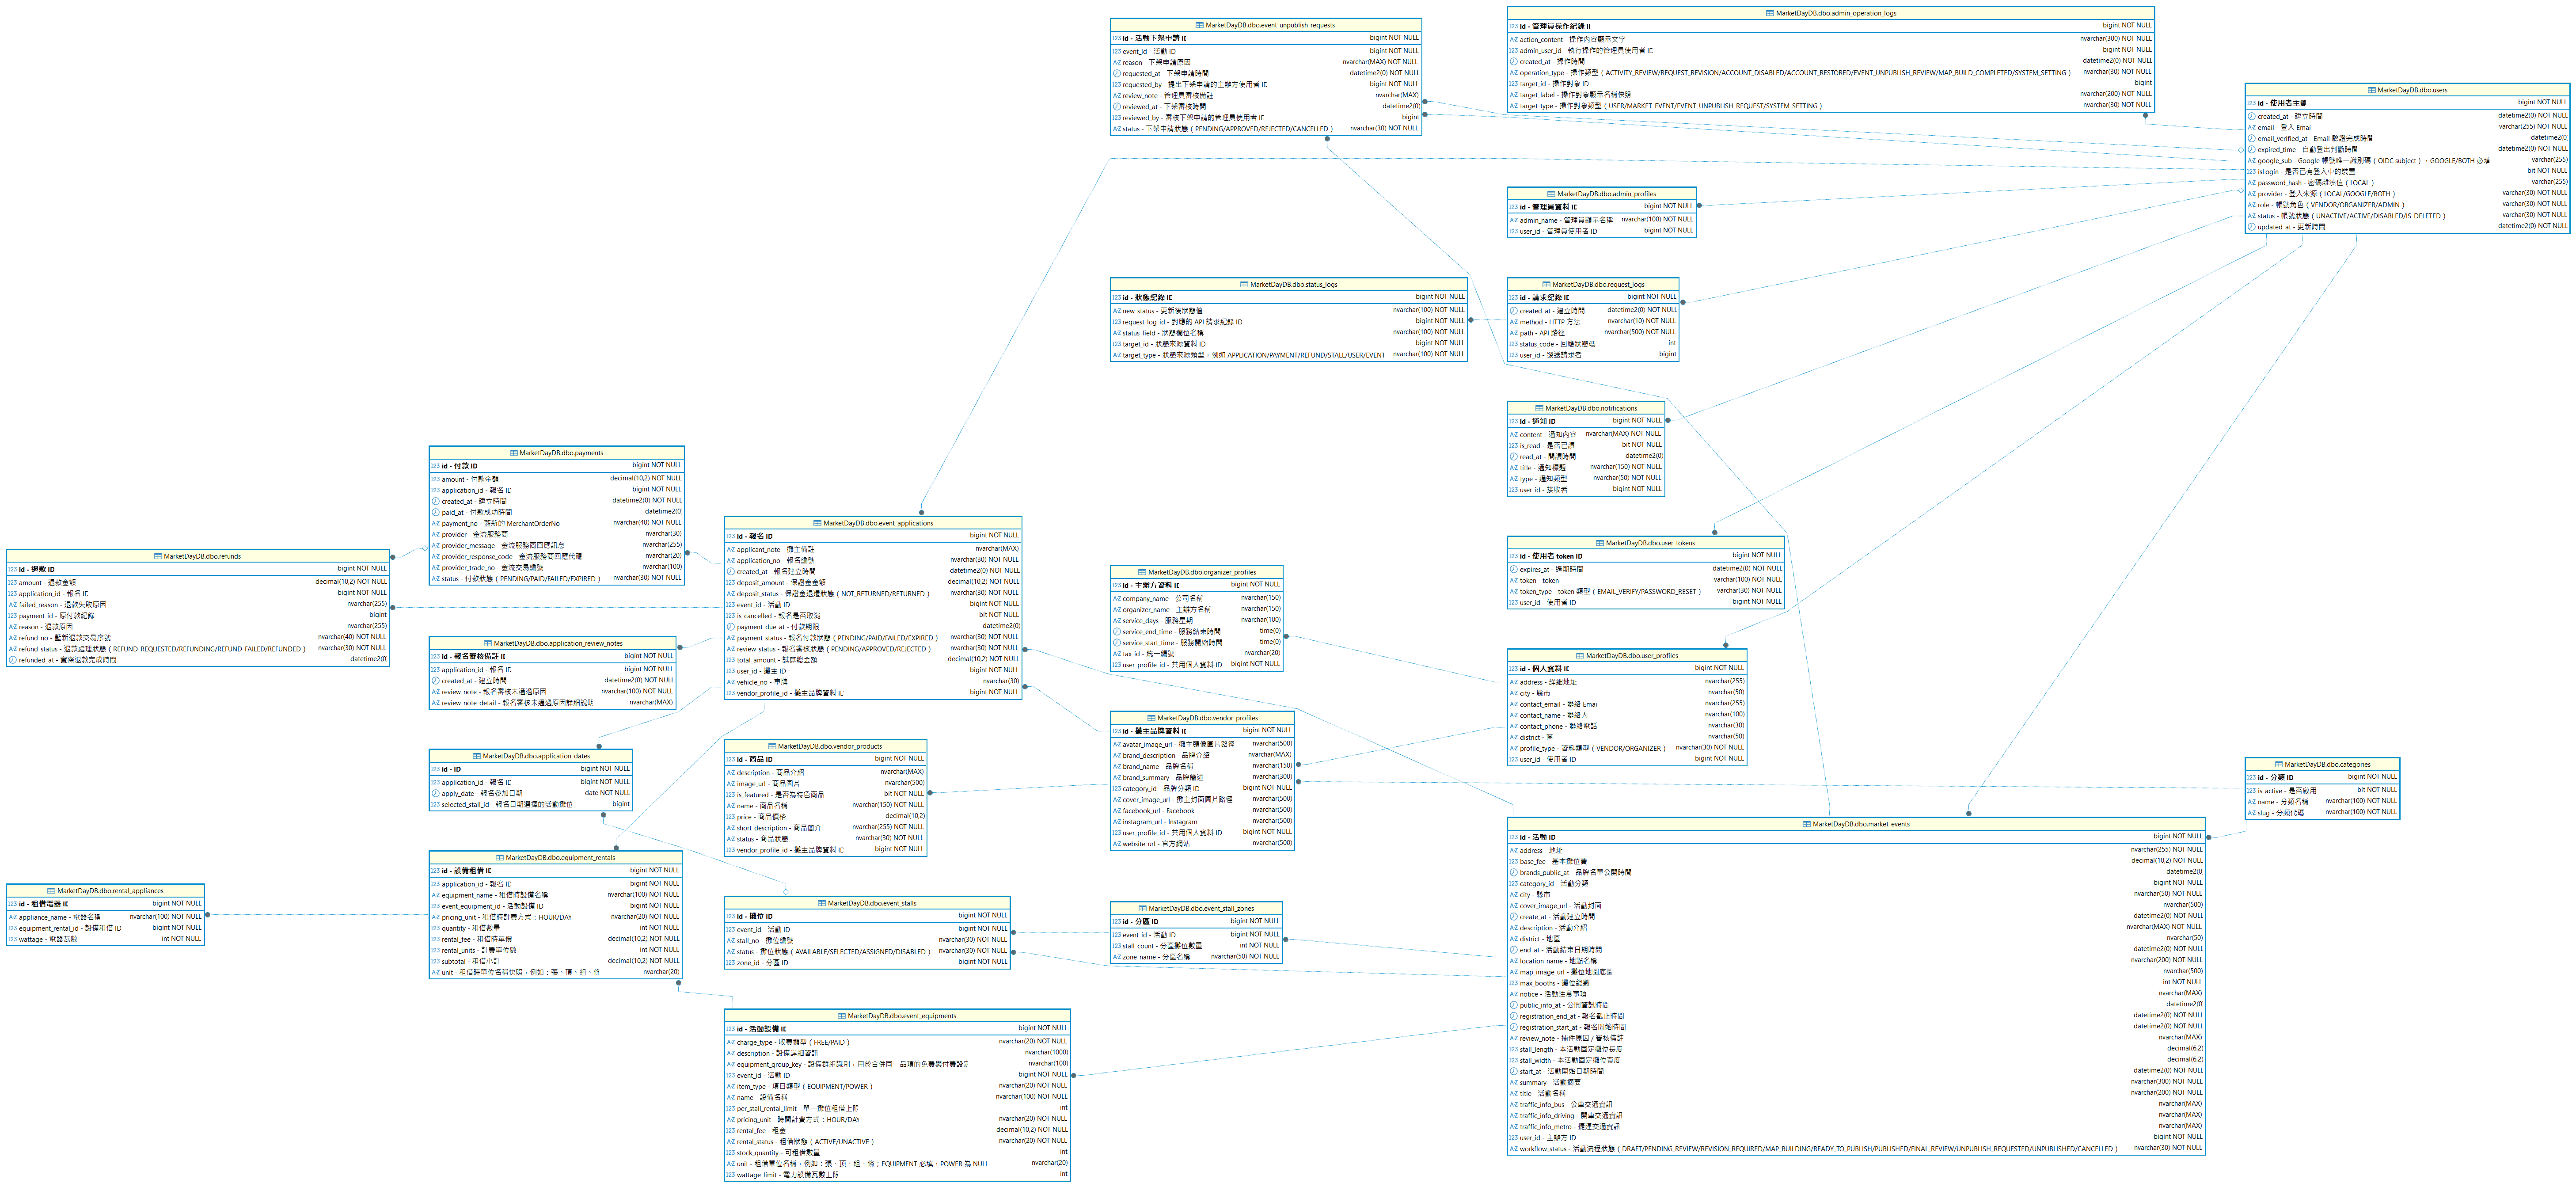
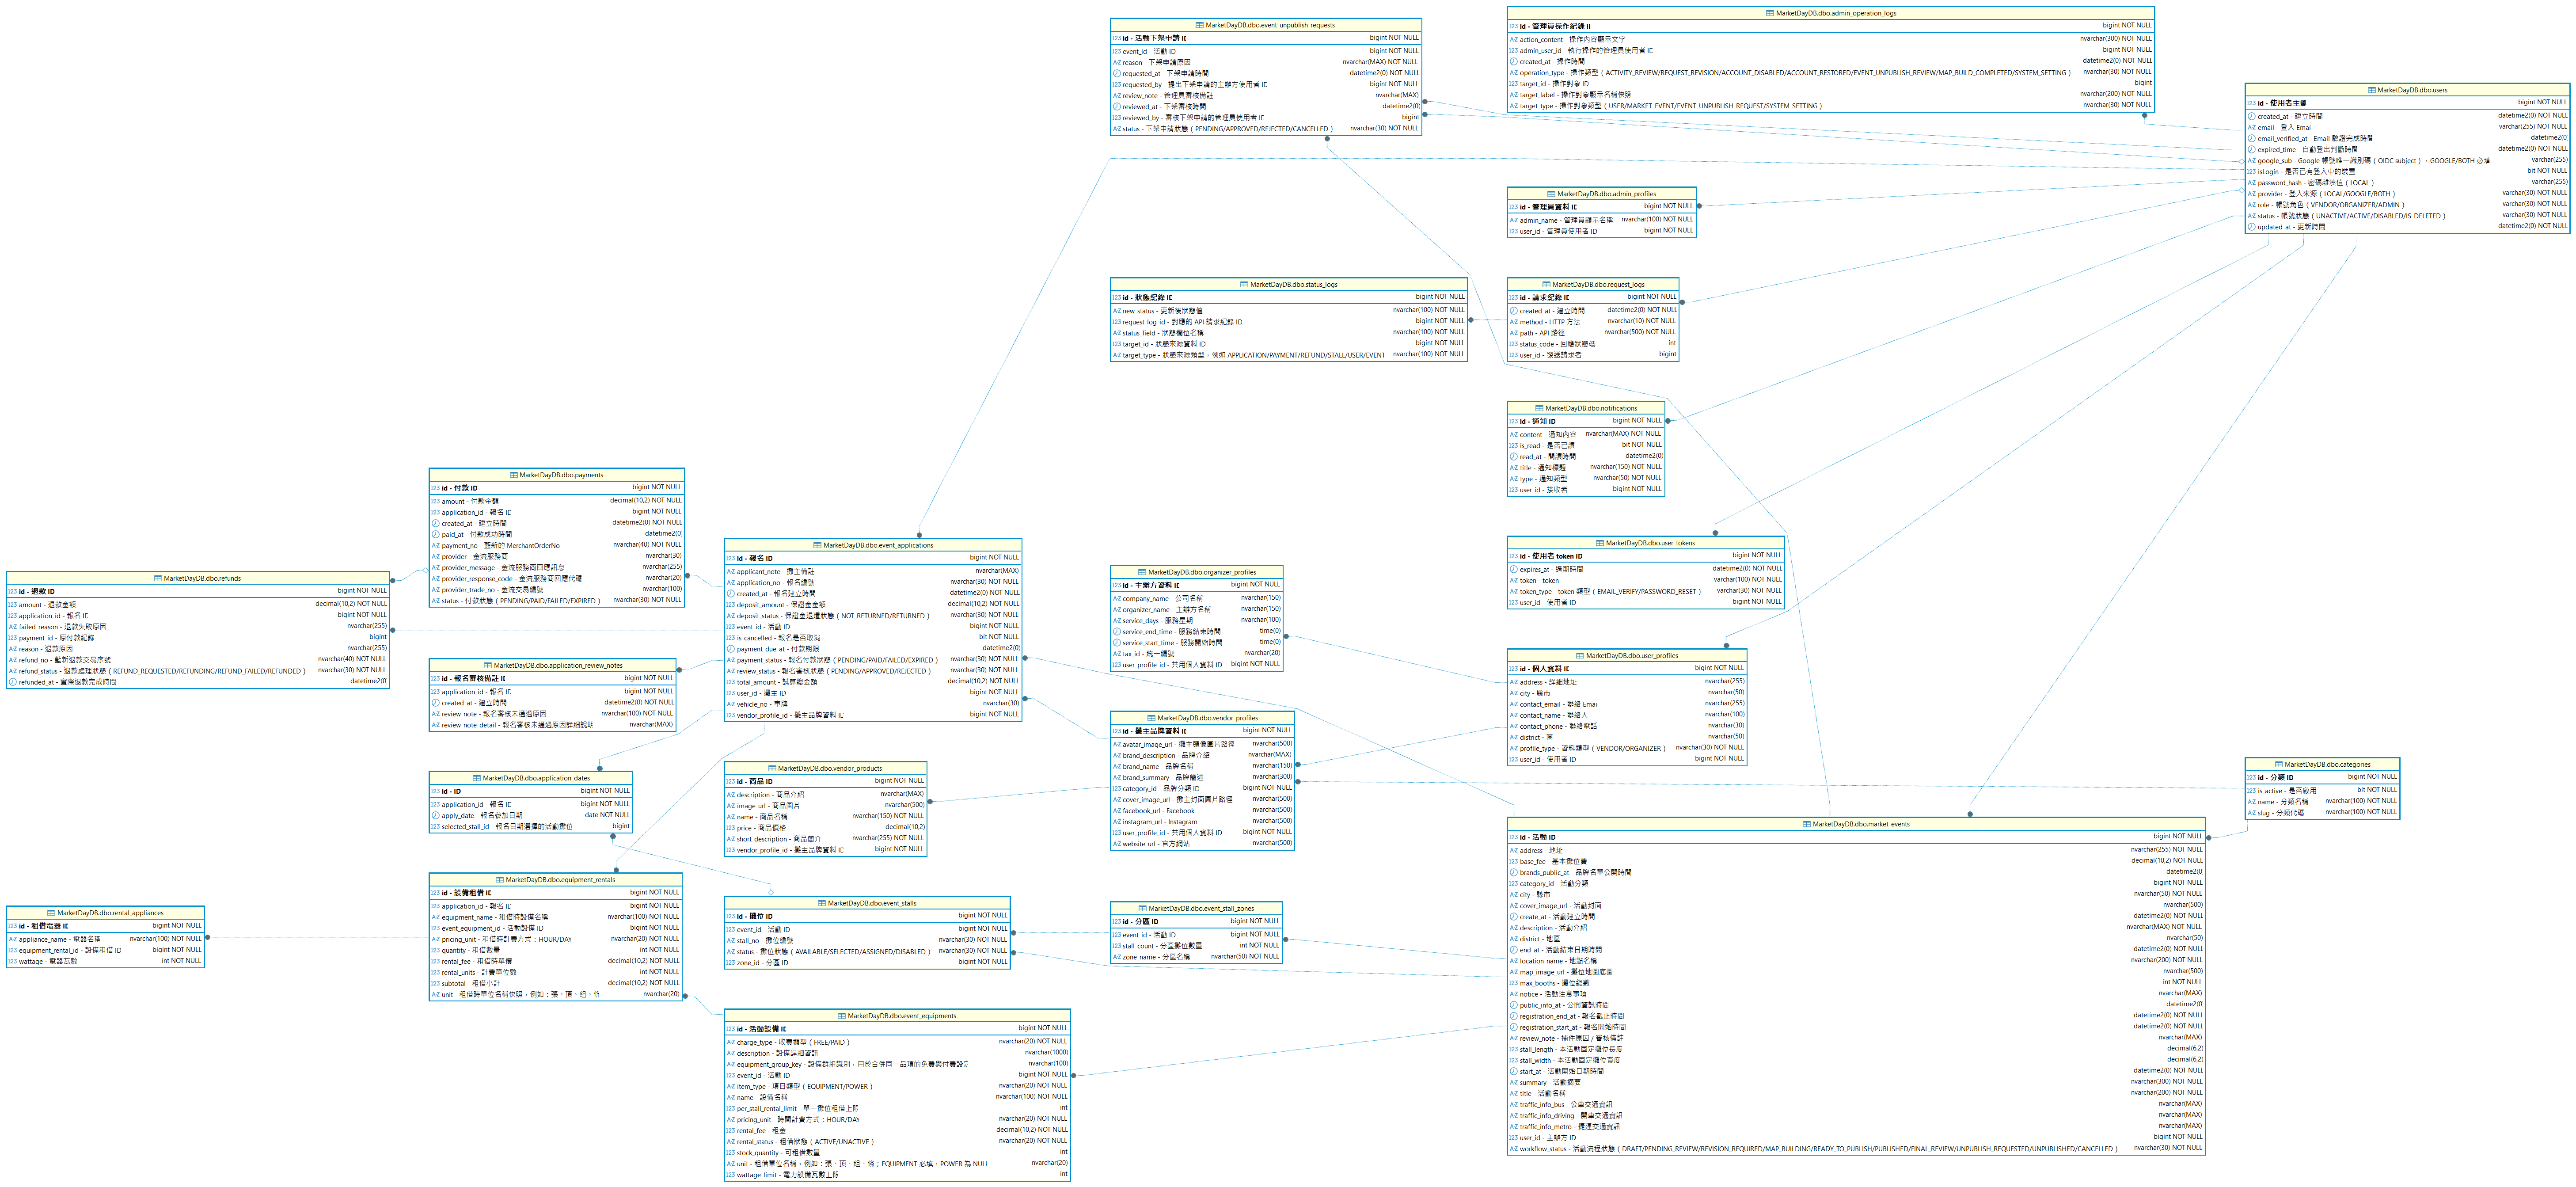
移除部分商品欄位

Changed region(s): [[0.0, 0.3708, 0.4058, 0.8343], [0.0, 0.7416, 0.0937, 0.8034]]

diff --git a/README.md b/README.md
@@ -6,6 +6,16 @@
 
 > 更新日誌請依日期與 branch 分區：日期使用 `###`，branch 使用 `####`，越近的更新放越上面，避免不同分支的更動混在同一段。
 
+### 2026-07-14
+
+#### simon branch
+
+- 簡化 `vendor_products`：移除 `is_featured` 與 `status`，商品不再區分特色商品或顯示狀態；資料表保留商品基本資料、價格與單張圖片路徑。
+- `vendor_products` 查詢索引調整為 `IX_vendor_products_vendor(vendor_profile_id)`，供品牌與攤主資料依品牌 ID 取得商品。
+- 攤主儲存完整商品清單時，既有商品依原 ID 更新、新商品才新增，未包含於前端清單的既有商品直接刪除，避免每次儲存都刪除重建而使商品 ID 持續增加。
+- `/api/brands/search` 與 `/api/brands/{id}` 同步取消 `is_featured`、`status` 篩選；品牌搜尋回傳該品牌全部商品名稱，品牌詳情回傳全部商品詳細資料，並依商品 ID 排序。
+- `clear.sql` 補上 `admin_profiles` 的資料刪除與 identity reseed，避免清空 `users` 時與 `FK_admin_profiles_users` 外鍵衝突。
+
 ### 2026-07-13
 
 #### simon branch
@@ -24,8 +34,6 @@
 
 #### simon branch
 
-- 新增 `test10.sql`，提供公開品牌 API 測試資料：50 筆品牌、每品牌 10 筆商品、10 筆測試活動，每個品牌皆參與所有測試活動，活動時間包含已結束、進行中與未開始。
-- 新增 `test11.sql`，提供主辦方 profile API 測試資料：建立 1 筆主辦方帳號、共用聯絡/地址資料與主辦方公司/服務時間資料；測試帳號為 `[email redacted]`，密碼為 `a12345678`。
 - `market_events` 移除 `traffic_info`，交通資訊改由 `event_traffic_infos` 保存。
 - 新增 `event_traffic_infos`，以 `event_id` 關聯活動，並用 `traffic_title`、`traffic_details` 保存多筆交通方式與詳細資訊。
 - `event_applications` 移除 `review_note`，報名退件原因改由 `application_review_notes` 保存。
@@ -33,8 +41,8 @@
 - `vendor_profiles` 新增 `brand_summary` 保存品牌簡述，原 `brand_description` 語意調整為品牌介紹。
 - `vendor_profiles` 新增 `brand_name` 保存品牌名稱；品牌名稱不再使用 `user_profiles.name`。
 - `vendor_profiles` 移除 `brand_type`，品牌類型統一由 `category_id` 關聯 `categories` 取得。
-- `vendor_profiles` 移除 `product_summary`，品牌特色商品改由 `vendor_products` 保存詳細資料。
-- `vendor_products` 新增 `is_featured`，用來標記特色商品；顯示排序由後端查詢邏輯決定。
+- `vendor_profiles` 移除 `product_summary`，品牌商品改由 `vendor_products` 保存詳細資料。
+- `vendor_products` 的商品顯示依後端排序邏輯決定，移除商品時直接刪除資料。
 - `organizer_profiles` 新增 `organizer_name` 保存主辦方名稱；主辦方名稱不再使用 `user_profiles.name`。
 - `user_profiles` 移除 `name`，只保留共用聯絡人、電話、Email、縣市、地區與地址等資料。
 - `user_profiles.address` 只保存詳細地址原文，不負責組合縣市與地區；後端回傳主辦資料時也直接回傳此欄位。
@@ -162,7 +170,7 @@
 - `user_profiles`：攤主與主辦方共用聯絡資料，包含 contact_name、contact_phone、contact_email、地址等資料。
 - `vendor_profiles`：攤主品牌專屬資料，包含品牌名稱、分類、頭像、封面、社群連結、品牌簡述與品牌介紹
 - `organizer_profiles`：主辦方專屬資料，包含主辦方名稱、公司名稱、統一編號與服務時間
-- `vendor_products`：品牌商品，關聯 `vendor_profiles`，可用 `is_featured` 標記特色商品
+- `vendor_products`：品牌商品，關聯 `vendor_profiles`
 - `admin_profiles`：管理員資料，關聯 `users`，保存管理員顯示名稱
 - `market_events`：市集活動，包含活動時間、報名時間、活動共用攤位寬度與長度、固定三種交通資訊、活動流程狀態與活動建立時間
 - `event_unpublish_requests`：活動下架申請，記錄主辦方申請原因與管理員審核結果
@@ -208,7 +216,7 @@
 - `GET /api/brands/{id}`
 - `GET /api/brands/scroll-options`
 
-資料內容包含 50 筆品牌、每品牌 10 筆商品、每品牌 2-3 筆特色商品、10 筆測試市集活動，以及每個品牌參與所有測試活動的報名資料。活動時間刻意分成已結束、進行中與未開始，方便驗證品牌詳情中的歷史參與市集只統計 `end_at < now` 的活動。
+資料內容包含 50 筆品牌、每品牌 10 筆商品、10 筆測試市集活動，以及每個品牌參與所有測試活動的報名資料。活動時間刻意分成已結束、進行中與未開始，方便驗證品牌詳情中的歷史參與市集只統計 `end_at < now` 的活動。
 
 ### `test11.sql`
 